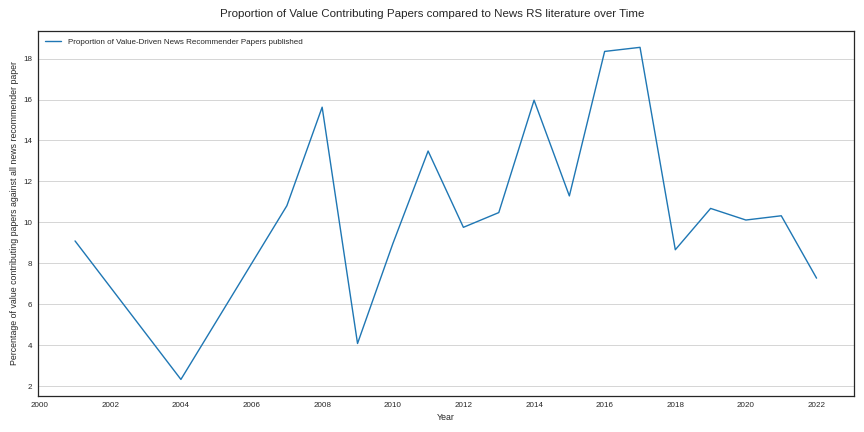
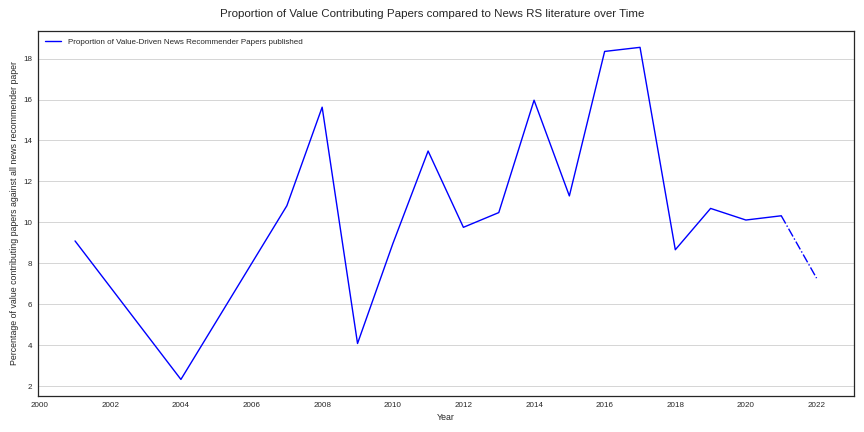
Implemented chandnis changes for the last year

diff --git a/analyse_literature_review_results.py b/analyse_literature_review_results.py
@@ -61,7 +61,7 @@ data[all_relevant_cols] = data[all_relevant_cols].fillna(0)
 data[all_relevant_cols] = data[all_relevant_cols].infer_objects()
 data[all_relevant_cols] = data[all_relevant_cols].astype(float)
 data = data[data['Not Relevant'] == 0].drop('Not Relevant', axis=1)
-data[C_TYPE_PAPER] = data[C_TYPE_PAPER].str.title()
+data[C_TYPE_PAPER] = data[C_TYPE_PAPER].str.title().replace("Conceptual/Analysis", "Conceptual").replace("Conceptual/Review", "Conceptual")
 data[C_YEAR] = pd.to_datetime(data[C_YEAR].astype(str), format="%Y")
 data[C_DIVERSITY_TYPE] = data[C_DIVERSITY_TYPE].str.split(',')
 data[C_EVALUATION_TYPE] = data[C_EVALUATION_TYPE].str.split(',')
@@ -219,11 +219,11 @@ for i in thresh:
 # %%
 fig, ax = plt.subplots(figsize=(15, 8))
 sns.barplot(
-    data=molten_data,
+    data=molten_data.groupby([C_VALUE, C_VALUE_GROUP]).sum().reset_index().sort_values([C_VALUE_GROUP, C_MENTIONS]),
     y=C_VALUE,
     x=C_MENTIONS,
     hue=C_VALUE_GROUP,
-    estimator=sum,
+    # estimator=sum,
     orient="h",
     ax=ax,
     ci=None,
@@ -330,14 +330,23 @@ plt.show()
 grouped_time_data = molten_data.groupby([C_YEAR, C_VALUE_GROUP]).sum().reset_index()
 fig, ax = plt.subplots(figsize=(12, 6))
 ax = sns.lineplot(
-    data=grouped_time_data,
+    data=grouped_time_data[grouped_time_data[C_YEAR] <= data[C_YEAR].max() - pd.DateOffset(years=1)],
     x=C_YEAR,
     y=C_MENTIONS,
     hue=C_VALUE_GROUP,
     ax=ax,
 )
+ax = sns.lineplot(
+    data=grouped_time_data[grouped_time_data[C_YEAR] >= data[C_YEAR].max() - pd.DateOffset(years=1)],
+    x=C_YEAR,
+    y=C_MENTIONS,
+    hue=C_VALUE_GROUP,
+    ax=ax,
+    linestyle="-.",
+    legend=None,
+)
 
-sns.lineplot(data=data[[C_YEAR, C_TITLE]].groupby(C_YEAR).count(), x=C_YEAR, y=C_TITLE, label="No. of relevant Papers published", color='Grey', linestyle="-.")
+sns.lineplot(data=data[[C_YEAR, C_TITLE]].groupby(C_YEAR).count(), x=C_YEAR, y=C_TITLE, label="No. of relevant Papers published", color='Grey', linestyle=":")
 # sns.lineplot(data=df_all_pre_screening[[C_YEAR, C_TITLE]].groupby(C_YEAR).count(), x=C_YEAR, y=C_TITLE, label="No. of relevant Papers published", color='Grey', linestyle="-.")
 # sns.lineplot(data=grouped_time_data.groupby(C_YEAR).mean(), x=C_YEAR, y=C_MENTIONS, label="Mean Value Contributions", color='Black', linestyle="-.")
 ax.xaxis.set_major_locator(matplotlib.dates.YearLocator(base=2))
@@ -351,43 +360,84 @@ fig.tight_layout()
 plt.savefig('figs/lit_rev_count_over_time.png')
 plt.show()
 # %%
-grouped_time_data = molten_data.groupby([C_YEAR, C_VALUE_GROUP]).sum().reset_index()
+grouped_time_data = molten_data.groupby([C_YEAR, C_VALUE_GROUP]).sum().reset_index().merge(data[[C_YEAR, C_TITLE]].groupby(C_YEAR).count().reset_index(),
+                                                                                           left_on=C_YEAR,
+                                                                                           right_on=C_YEAR)
+grouped_time_data[C_MENTIONS] /= grouped_time_data[C_TITLE]
 fig, ax = plt.subplots(figsize=(12, 6))
 ax = sns.lineplot(
-    data=grouped_time_data,
+    data=grouped_time_data[grouped_time_data[C_YEAR] <= data[C_YEAR].max() - pd.DateOffset(years=1)],
     x=C_YEAR,
     y=C_MENTIONS,
     hue=C_VALUE_GROUP,
     ax=ax,
 )
+ax = sns.lineplot(
+    data=grouped_time_data[grouped_time_data[C_YEAR] >= data[C_YEAR].max() - pd.DateOffset(years=1)],
+    x=C_YEAR,
+    y=C_MENTIONS,
+    hue=C_VALUE_GROUP,
+    ax=ax,
+    linestyle="-.",
+    legend=None,
+)
 
-sns.lineplot(data=data[[C_YEAR, C_TITLE]].groupby(C_YEAR).count(), x=C_YEAR, y=C_TITLE, label="No. of relevant Papers published", color='Grey', linestyle="-.")
-# sns.lineplot(data=df_all_pre_screening[[C_YEAR, C_TITLE]].groupby(C_YEAR).count(), x=C_YEAR, y=C_TITLE, label="No. of relevant Papers published", color='Grey', linestyle="-.")
+# sns.lineplot(data=, x=C_YEAR, y=C_TITLE, label="No. of relevant Papers published", color='Grey', linestyle="-.")
 # sns.lineplot(data=grouped_time_data.groupby(C_YEAR).mean(), x=C_YEAR, y=C_MENTIONS, label="Mean Value Contributions", color='Black', linestyle="-.")
 ax.xaxis.set_major_locator(matplotlib.dates.YearLocator(base=2))
 ax.xaxis.set_major_formatter(matplotlib.dates.DateFormatter("%Y"))
-# ax.yaxis.set_minor_locator(matplotlib.ticker.MultipleLocator(1))
-# ax.tick_params(axis='y', which='minor', bottom=False)
-ax.set_xlim(data[C_YEAR].min(), data[C_YEAR].max() - pd.DateOffset(years=1))
 ax.grid(axis='y', )
-fig.suptitle("Sum of Value Contributions over Time (until 2021)")
+fig.suptitle("Sum of Value Contribution Proportions over Time")
 fig.tight_layout()
-plt.savefig('figs/lit_rev_count_over_time_only_completed_years.png')
+plt.savefig('figs/lit_rev_count_proportions_over_time.png')
 plt.show()
+# %%
+# grouped_time_data = molten_data.groupby([C_YEAR, C_VALUE_GROUP]).sum().reset_index()
+# fig, ax = plt.subplots(figsize=(12, 6))
+# ax = sns.lineplot(
+#     data=grouped_time_data,
+#     x=C_YEAR,
+#     y=C_MENTIONS,
+#     hue=C_VALUE_GROUP,
+#     ax=ax,
+# )
+
+# sns.lineplot(data=data[[C_YEAR, C_TITLE]].groupby(C_YEAR).count(), x=C_YEAR, y=C_TITLE, label="No. of relevant Papers published", color='Grey', linestyle="-.")
+# # sns.lineplot(data=df_all_pre_screening[[C_YEAR, C_TITLE]].groupby(C_YEAR).count(), x=C_YEAR, y=C_TITLE, label="No. of relevant Papers published", color='Grey', linestyle="-.")
+# # sns.lineplot(data=grouped_time_data.groupby(C_YEAR).mean(), x=C_YEAR, y=C_MENTIONS, label="Mean Value Contributions", color='Black', linestyle="-.")
+# ax.xaxis.set_major_locator(matplotlib.dates.YearLocator(base=2))
+# ax.xaxis.set_major_formatter(matplotlib.dates.DateFormatter("%Y"))
+# # ax.yaxis.set_minor_locator(matplotlib.ticker.MultipleLocator(1))
+# # ax.tick_params(axis='y', which='minor', bottom=False)
+# ax.set_xlim(data[C_YEAR].min(), data[C_YEAR].max() - pd.DateOffset(years=1))
+# ax.grid(axis='y', )
+# fig.suptitle("Sum of Value Contributions over Time (until 2021)")
+# fig.tight_layout()
+# plt.savefig('figs/lit_rev_count_over_time_only_completed_years.png')
+# plt.show()
 # %%
 grouped_time_data = molten_data.groupby([C_YEAR]).sum().div(36).reset_index().melt([C_YEAR], COLS_METRICS_GRP, value_name=C_MENTIONS, var_name=C_METRICS_GROUP)
 fig, ax = plt.subplots(figsize=(12, 6))
 ax = sns.lineplot(
-    data=grouped_time_data,
+    data=grouped_time_data[grouped_time_data[C_YEAR] <= data[C_YEAR].max() - pd.DateOffset(years=1)],
     x=C_YEAR,
     y=C_MENTIONS,
     hue=C_METRICS_GROUP,
     ax=ax,
 )
+ax = sns.lineplot(
+    data=grouped_time_data[grouped_time_data[C_YEAR] >= data[C_YEAR].max() - pd.DateOffset(years=1)],
+    x=C_YEAR,
+    y=C_MENTIONS,
+    hue=C_METRICS_GROUP,
+    ax=ax,
+    linestyle="-.",
+    legend=None,
+)
 
 ax.xaxis.set_major_locator(matplotlib.dates.YearLocator(base=2))
 ax.xaxis.set_major_formatter(matplotlib.dates.DateFormatter("%Y"))
-ax.set_xlim(data[C_YEAR].min(), data[C_YEAR].max() - pd.DateOffset(years=1))
+# ax.set_xlim(data[C_YEAR].min(), data[C_YEAR].max() - pd.DateOffset(years=1))
 ax.grid(axis='y', )
 fig.suptitle("Sum of Metric Uses over Time (until 2021)")
 fig.tight_layout()
@@ -400,8 +450,7 @@ df_all_pre_screening[C_YEAR] = pd.to_datetime(df_all_pre_screening["year"].astyp
 df_all_pre_screening[C_TITLE] = df_all_pre_screening["title"]
 df_all_pre_screening = df_all_pre_screening[df_all_pre_screening[C_YEAR] >= data[C_YEAR].min()]
 df_all_pre_screening
-
-grouped_time_data = molten_data.groupby([C_YEAR, C_VALUE_GROUP]).sum().reset_index()
+# grouped_time_data = molten_data.groupby([C_YEAR, C_VALUE_GROUP]).sum().reset_index()
 fig, ax = plt.subplots(figsize=(12, 6))
 # ax = sns.lineplot(
 #     data=grouped_time_data,
@@ -411,8 +460,45 @@ fig, ax = plt.subplots(figsize=(12, 6))
 #     ax=ax,
 # )
 
-sns.lineplot(data=data[[C_YEAR, C_TITLE]].groupby(C_YEAR).count(), x=C_YEAR, y=C_TITLE, label="No. of News Recommeder Papers published")
-sns.lineplot(data=df_all_pre_screening[[C_YEAR, C_TITLE]].groupby(C_YEAR).count(), x=C_YEAR, y=C_TITLE, label="No. of Value-Driven News Recommender Papers published")
+df_pre_screening = df_all_pre_screening[[C_YEAR, C_TITLE]].groupby(C_YEAR).count()
+df_post_screening = data[[C_YEAR, C_TITLE]].groupby(C_YEAR).count()
+ax = sns.lineplot(
+    data=df_pre_screening[df_pre_screening.index <= data[C_YEAR].max() - pd.DateOffset(years=1)],
+    x=C_YEAR,
+    y=C_TITLE,
+    color="blue",
+    label="No. of News Recommeder Papers published",
+    ax=ax,
+)
+ax = sns.lineplot(
+    data=df_pre_screening[df_pre_screening.index >= data[C_YEAR].max() - pd.DateOffset(years=1)],
+    x=C_YEAR,
+    y=C_TITLE,
+    color="blue",
+    # label="No. of News Recommeder Papers published",
+    linestyle="-.",
+    legend=None,
+    ax=ax,
+)
+ax = sns.lineplot(
+    data=df_post_screening[df_post_screening.index <= data[C_YEAR].max() - pd.DateOffset(years=1)],
+    x=C_YEAR,
+    y=C_TITLE,
+    color="red",
+    label="No. of Value-Driven News Recommender Papers published",
+    ax=ax,
+)
+ax = sns.lineplot(
+    data=df_post_screening[df_post_screening.index >= data[C_YEAR].max() - pd.DateOffset(years=1)],
+    x=C_YEAR,
+    y=C_TITLE,
+    color="red",
+    # label="No. of Value-Driven News Recommender Papers published",
+    linestyle="-.",
+    legend=None,
+    ax=ax,
+)
+
 # sns.lineplot(data=grouped_time_data.groupby(C_YEAR).mean(), x=C_YEAR, y=C_MENTIONS, label="Mean Value Contributions", color='Black', linestyle="-.")
 ax.xaxis.set_major_locator(matplotlib.dates.YearLocator(base=2))
 ax.xaxis.set_major_formatter(matplotlib.dates.DateFormatter("%Y"))
@@ -431,8 +517,25 @@ df_all_pre_screening
 grouped_time_data = molten_data.groupby([C_YEAR, C_VALUE_GROUP]).sum().reset_index()
 fig, ax = plt.subplots(figsize=(12, 6))
 
-proportion_data = (data[[C_YEAR, C_TITLE]].groupby(C_YEAR).count() / df_all_pre_screening[[C_YEAR, C_TITLE]].groupby(C_YEAR).count()) * 100
-sns.lineplot(data=proportion_data, x=C_YEAR, y=C_TITLE, label="Proportion of Value-Driven News Recommender Papers published")
+proportion_data = ((data[[C_YEAR, C_TITLE]].groupby(C_YEAR).count() / df_all_pre_screening[[C_YEAR, C_TITLE]].groupby(C_YEAR).count())) * 100
+ax = sns.lineplot(
+    data=proportion_data[proportion_data.index <= data[C_YEAR].max() - pd.DateOffset(years=1)],
+    x=C_YEAR,
+    y=C_TITLE,
+    color="blue",
+    label="Proportion of Value-Driven News Recommender Papers published",
+    ax=ax,
+)
+ax = sns.lineplot(
+    data=proportion_data[proportion_data.index >= data[C_YEAR].max() - pd.DateOffset(years=1)],
+    x=C_YEAR,
+    y=C_TITLE,
+    color="blue",
+    # label="Proportion of Value-Driven News Recommender Papers published",
+    linestyle="-.",
+    legend=None,
+    ax=ax,
+)
 # sns.lineplot(data=grouped_time_data.groupby(C_YEAR).mean(), x=C_YEAR, y=C_MENTIONS, label="Mean Value Contributions", color='Black', linestyle="-.")
 ax.xaxis.set_major_locator(matplotlib.dates.YearLocator(base=2))
 ax.xaxis.set_major_formatter(matplotlib.dates.DateFormatter("%Y"))
